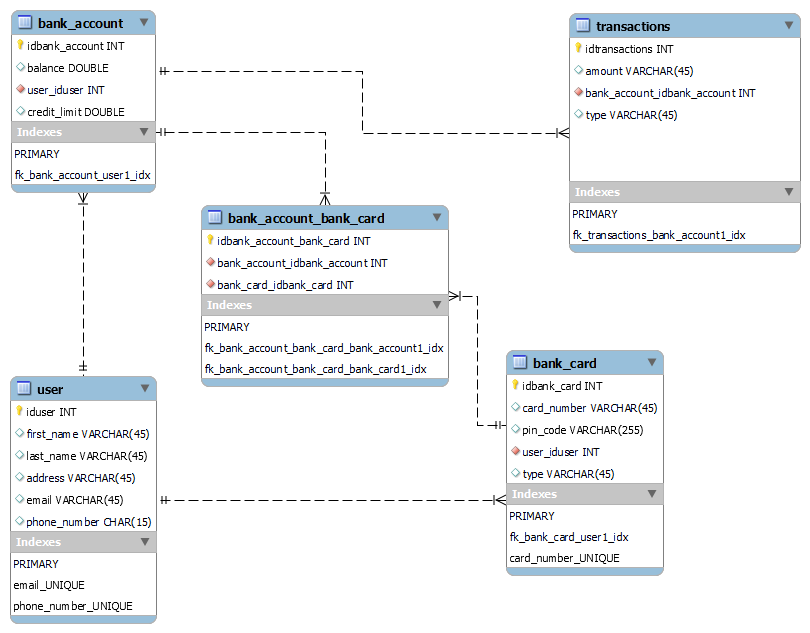
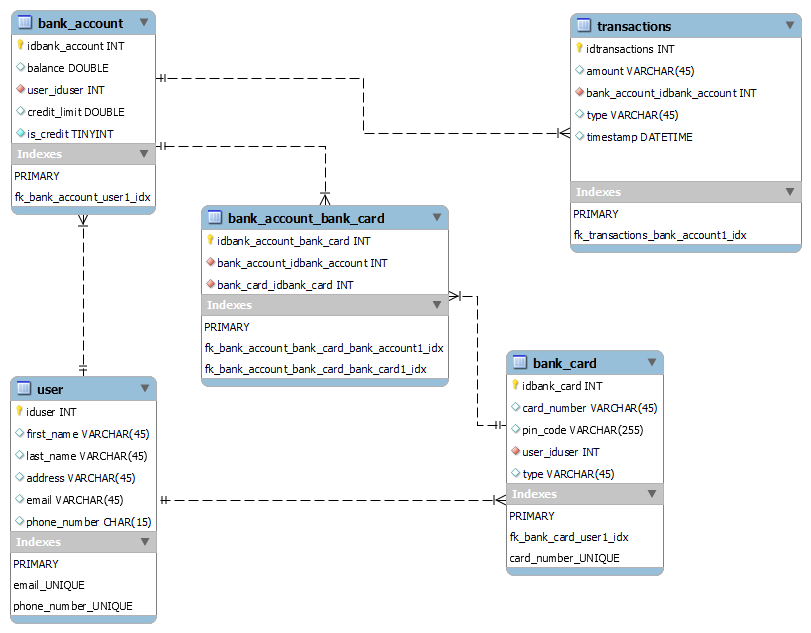
deposit, withdraw, card info and transaction history methods to REST API

diff --git a/backend/routes/bank_operations.js b/backend/routes/bank_operations.js
@@ -1,0 +1,145 @@
+const express = require('express');
+const router = express.Router();
+const bankops = require('../models/bank_operations_model');
+const bankaccount = require('../models/bank_account_model');
+const transactions = require('../models/transactions_model');
+
+router.get('/cardinfo/:card_number?',
+    function (request, response) {
+        bankops.getCardInfo(request.params.card_number, function (err, dbResult) {
+            if (err) {
+                response.json(err);
+            } else {
+                var result = {};
+                // Get debit and credit accounts
+                dbResult.forEach(row => {
+                    console.log(row);
+                    if(row.is_credit && row.type.toLowerCase()=="credit"){
+                        result.credit = row;
+                    }else if(!row.is_credit){
+                        result.debit = row;
+                    }
+                });
+                response.json(result);
+            }
+        })
+    });
+
+router.get('/history/:id?',
+    function (request, response) {
+        transactions.getByBankAccountId(request.params.id, function (err, dbResult) {
+            if (err) {
+                response.json(err);
+            } else {
+                response.json(dbResult);
+            }
+        })
+    });
+
+
+router.post('/deposit/:id?',
+    function (request, response) {
+
+        // Check if amount is valid number
+        if(isNaN(request.body.amount)){
+            response.send("Not valid amount");
+            return;
+        }
+
+        // Get bank account info
+        bankaccount.getById(request.params.id, function (err, dbResultGetAccount) {
+            if (err) {
+                response.json(err);
+            } else {
+                var accountInfo = dbResultGetAccount[0];
+
+                // Do not deposit on credit account
+                if(accountInfo.is_credit){
+                    response.send("Deposit is not possible for credit account");
+                    return;
+                } 
+
+                // Set new balance and update bank account
+                accountInfo.balance += Number(request.body.amount);
+                bankaccount.update(request.params.id, accountInfo, function (err, dbResultUpdateAccount){
+                    if (err) {
+                        response.json(err);
+                    } else {
+
+                        // Create transaction
+                        transactions.add({amount:request.body.amount,
+                            bank_account_idbank_account:request.params.id,
+                            type:"deposit"}, function (err, dbResultAddTransaction){
+
+                                // Return responses from both actions
+                                if (err) {
+                                    response.json({updateBankAccountResponse:dbResultUpdateAccount, addTransactionResponse:err});
+                                } else {
+                                    response.json({updateBankAccountResponse:dbResultUpdateAccount, addTransactionResponse:dbResultAddTransaction});
+                                }
+                            });
+                    }
+                });
+                 
+            }
+        }); 
+    });
+
+
+router.post('/withdraw/:id?',
+    function (request, response) {
+
+        // Check if amount is valid number
+        if(isNaN(request.body.amount)){
+            response.send("Not valid amount");
+            return;
+        }
+
+        // Get bank account info
+        bankaccount.getById(request.params.id, function (err, dbResultGetAccount) {
+            if (err) {
+                response.json(err);
+            } else {
+                var accountInfo = dbResultGetAccount[0];
+
+                // Return error if bank account has not enough balance or credit limit
+                if(!accountInfo.is_credit && accountInfo.balance < request.body.amount){
+                    response.send("Not enough balance");
+                }else if(accountInfo.is_credit && accountInfo.credit_limit < request.body.amount){
+                    response.send("Not enough credit limit");
+                }else{
+
+                    // Set new balance or credit limit and update bank account
+                    if(accountInfo.is_credit){
+                        accountInfo.credit_limit -= request.body.amount;
+                    }else if(!accountInfo.is_credit){
+                        accountInfo.balance -= request.body.amount;
+                    }
+                    bankaccount.update(request.params.id, accountInfo, function (err, dbResultUpdateAccount){
+                        if (err) {
+                            response.json(err);
+                        } else {
+
+                            // Create transaction
+                            transactions.add({amount:request.body.amount,
+                                bank_account_idbank_account:request.params.id,
+                                type:"withdraw"}, function (err, dbResultAddTransaction){
+
+                                    // Return responses from both actions
+                                    if (err) {
+                                        response.json({updateBankAccountResponse:dbResultUpdateAccount, addTransactionResponse:err});
+                                    } else {
+                                        response.json({updateBankAccountResponse:dbResultUpdateAccount, addTransactionResponse:dbResultAddTransaction});
+                                    }
+                                });
+                        }
+                    });
+                }   
+            }
+        });       
+             
+    });
+
+
+
+module.exports = router;

diff --git a/backend/models/bank_account_model.js b/backend/models/bank_account_model.js
@@ -9,8 +9,8 @@ const bank_account = {
     },
     add: function (bank_account, callback) {
         return db.query(
-            'insert into bank_account (balance,user_iduser,credit_limit) values(?,?,?)',
-            [bank_account.balance, bank_account.user_iduser, bank_account.credit_limit],
+            'insert into bank_account (balance,user_iduser,credit_limit) values(?,?,?,?)',
+            [bank_account.balance, bank_account.user_iduser, bank_account.credit_limit, bank_account.is_credit],
             callback
         );
     },
@@ -19,8 +19,8 @@ const bank_account = {
     },
     update: function (id, bank_account, callback) {
         return db.query(
-            'update bank_account set balance=?,user_iduser=?,credit_limit=? where idbank_account=?',
-            [bank_account.balance, bank_account.user_iduser, bank_account.credit_limit, id],
+            'update bank_account set balance=?,user_iduser=?,credit_limit=?, is_credit=? where idbank_account=?',
+            [bank_account.balance, bank_account.user_iduser, bank_account.credit_limit, bank_account.is_credit, id],
             callback
         );
     }

diff --git a/backend/models/transactions_model.js b/backend/models/transactions_model.js
@@ -4,13 +4,16 @@ const transactions = {
     getById: function (id, callback) {
         return db.query('select * from transactions where idtransactions=?', [id], callback);
     },
+    getByBankAccountId: function (id, callback) {
+        return db.query('select * from transactions where bank_account_idbank_account=?', [id], callback);
+    },
     getAll: function (callback) {
         return db.query('select * from transactions', callback);
     },
     add: function (transactions, callback) {
         return db.query(
-            'insert into transactions (amount, bank_account_idbank_account, type, date, time) values(?,?,?,?,?)',
-            [transactions.amount, transactions.bank_account_idbank_account, transactions.type,transactions.date,transactions.time],
+            'insert into transactions (amount, bank_account_idbank_account, type) values(?,?,?)',
+            [transactions.amount, transactions.bank_account_idbank_account, transactions.type],
             callback
         );
     },

diff --git a/backend/app.js b/backend/app.js
@@ -12,6 +12,7 @@ var loginRouter = require('./routes/login');
 var bank_accountRouter = require('./routes/bank_account');
 var transactionsRouter = require('./routes/transactions');
 var bank_account_bank_cardRouter = require('./routes/bank_account_bank_card');
+var bank_operationsRouter = require('./routes/bank_operations');
 
 
 var app = express();
@@ -31,6 +32,7 @@ app.use('/bankcard', bankcardRouter);
 app.use('/bank_account', bank_accountRouter);
 app.use('/transactions', transactionsRouter);
 app.use('/bank_account_bank_card', bank_account_bank_cardRouter);
+app.use('/bank_operations', bank_operationsRouter);
 
 
 app.use(authenticateToken);

diff --git a/backend/models/bank_operations_model.js b/backend/models/bank_operations_model.js
@@ -1,0 +1,13 @@
+const db = require('../database');
+
+const bankops = {
+    getCardInfo: function (card_number, callback) {
+        return db.query('select idbank_account, card_number, type, balance, credit_limit, is_credit from bank_card ' 
+            + 'inner join bank_account_bank_card on bank_card.idbank_card = bank_account_bank_card.bank_card_idbank_card '
+            + 'inner join bank_account on bank_account_bank_card.bank_account_idbank_account = bank_account.idbank_account '
+            + 'where card_number = ?;',
+            [card_number],
+            callback);
+    },
+};
+module.exports = bankops;

diff --git a/backend/models/bank_account_bank_card_model.js b/backend/models/bank_account_bank_card_model.js
@@ -9,7 +9,7 @@ const bank_account_bank_card = {
     },
     add: function (bank_account_bank_card, callback) {
         return db.query(
-            'insert into bank_account_bank_card (bank_account_idbank_account,bank_card_idbank_card,) values(?,?)',
+            'insert into bank_account_bank_card (bank_account_idbank_account,bank_card_idbank_card) values(?,?)',
             [bank_account_bank_card.bank_account_idbank_account, bank_account_bank_card.bank_card_idbank_card],
             callback
         );
